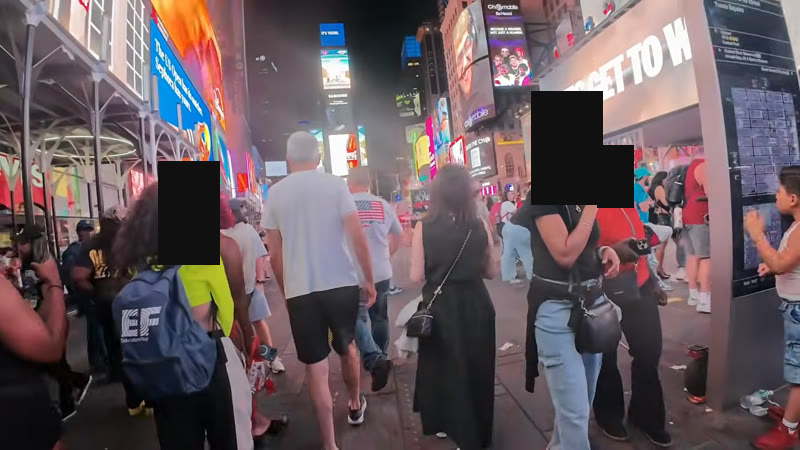
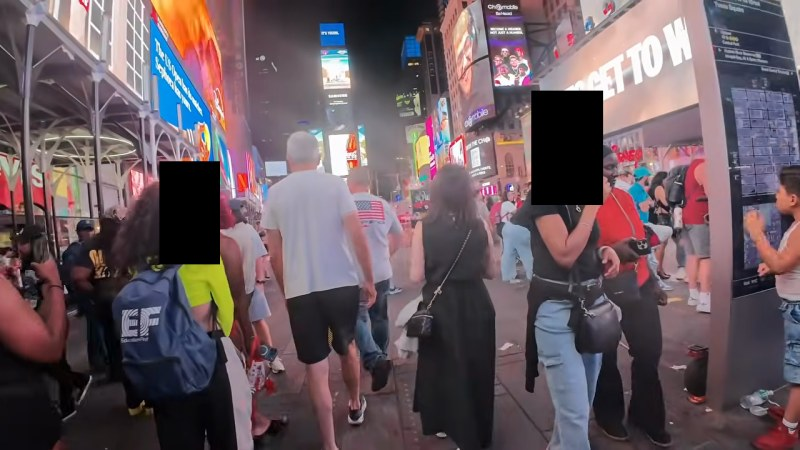
Restore the original Open Redaction README preview

diff --git a/samples/readme-demo/README.md b/samples/readme-demo/README.md
@@ -4,7 +4,7 @@ Side-by-side stills in the root README:
 
 | File | Source |
 |------|--------|
-| `frame_input.jpg` | Same still with three manually placed opaque face masks for the public README preview |
+| `frame_input.jpg` | Same still, but **only the two largest YuNet face boxes** are manually blacked out for public README (not a real pipeline input) |
 | `frame_output.jpg` | Full source frame after `open-redact` (`FACE_BLUR_DETECTOR=max`, opaque face boxes on all detections) |
 
 Regenerate:
@@ -19,10 +19,19 @@ open-redact samples/readme-demo/input.mp4 -o samples/readme-demo/output.redacted
 ffmpeg -ss 0.5 -i samples/readme-demo/input.mp4 -frames:v 1 /tmp/in.png
 ffmpeg -ss 0.5 -i samples/readme-demo/output.redacted.mp4 -frames:v 1 /tmp/out.png
 ffmpeg -i /tmp/out.png -vf scale=800:-1 samples/readme-demo/frame_output.jpg -q:v 3
-# Three fixed masks on the 800x450 preview. The last covers the woman in red.
-ffmpeg -hide_banner -loglevel error -y -i "$IMG" \
-  -vf 'scale=800:450,drawbox=158:161:62:104:black:fill,drawbox=531:91:72:114:black:fill,drawbox=597:145:37:63:black:fill' \
-  -frames:v 1 -map_metadata -1 -q:v 3 -update 1 samples/readme-demo/frame_input.jpg
+python3 - <<'PY'
+# Public input preview: black out the two largest face detections only.
+import cv2
+from pathlib import Path
+from agents.ml.face_blur.factory import build_detector
+src = Path("datasets/privacy_redaction/nyc_times_square_45s/frames/nyc_0015.png")
+frame = cv2.imread(str(src))
+boxes = sorted(build_detector("opencv", 0.3).detect(frame), key=lambda b: int(b[2])*int(b[3]), reverse=True)
+for x,y,w,h in (tuple(int(v) for v in b[:4]) for b in boxes[:2]):
+    cv2.rectangle(frame, (max(0,x-int(w*0.15)), max(0,y-int(h*0.2))), (min(frame.shape[1],x+w+int(w*0.15)), min(frame.shape[0],y+h+int(h*0.2))), (0,0,0), -1)
+h,w=frame.shape[:2]; frame=cv2.resize(frame,(800,int(h*800/w)))
+cv2.imwrite("samples/readme-demo/frame_input.jpg", frame, [int(cv2.IMWRITE_JPEG_QUALITY),88])
+PY
 ```
 
 Video caches stay gitignored; only the two JPEGs are committed for GitHub rendering.

diff --git a/README.md b/README.md
@@ -81,8 +81,8 @@ pip install -e ".[dev]"
 
 | Scene preview (GitHub) | `open-redact` output |
 |:--:|:--:|
-| ![README preview with three faces manually masked](samples/readme-demo/frame_input.jpg) | ![Automated redaction on the original frame](samples/readme-demo/frame_output.jpg) |
-| Three faces are manually masked in the preview. | Opaque boxes on **all** faces the engine detects |
+| ![README preview — two prominent faces pre-redacted for publication](samples/readme-demo/frame_input.jpg) | ![Automated redaction on the original frame](samples/readme-demo/frame_output.jpg) |
+| Two identifiable faces **manually blacked out** so we do not publish them; smaller/distant faces may still appear | Opaque boxes on **all** faces the engine detects |
 
 Your local runs always read **your unmodified files** — we never upload source video to GitHub. The left image is sanitized for this repo only.
 
